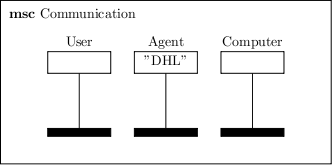
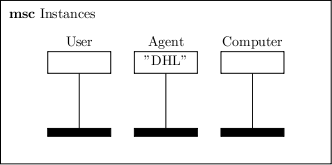
corregida figura para que muestre el texto instances en lugar de communication

diff --git a/doc/images/instances.tex b/doc/images/instances.tex
@@ -4,7 +4,7 @@
 
 \setlength{\firstlevelheight}{1cm}
 
-\begin{msc}{Communication}
+\begin{msc}{Instances}
 
 \declinst{a}{User}{}
 \declinst{f}{Agent}{"DHL"}
